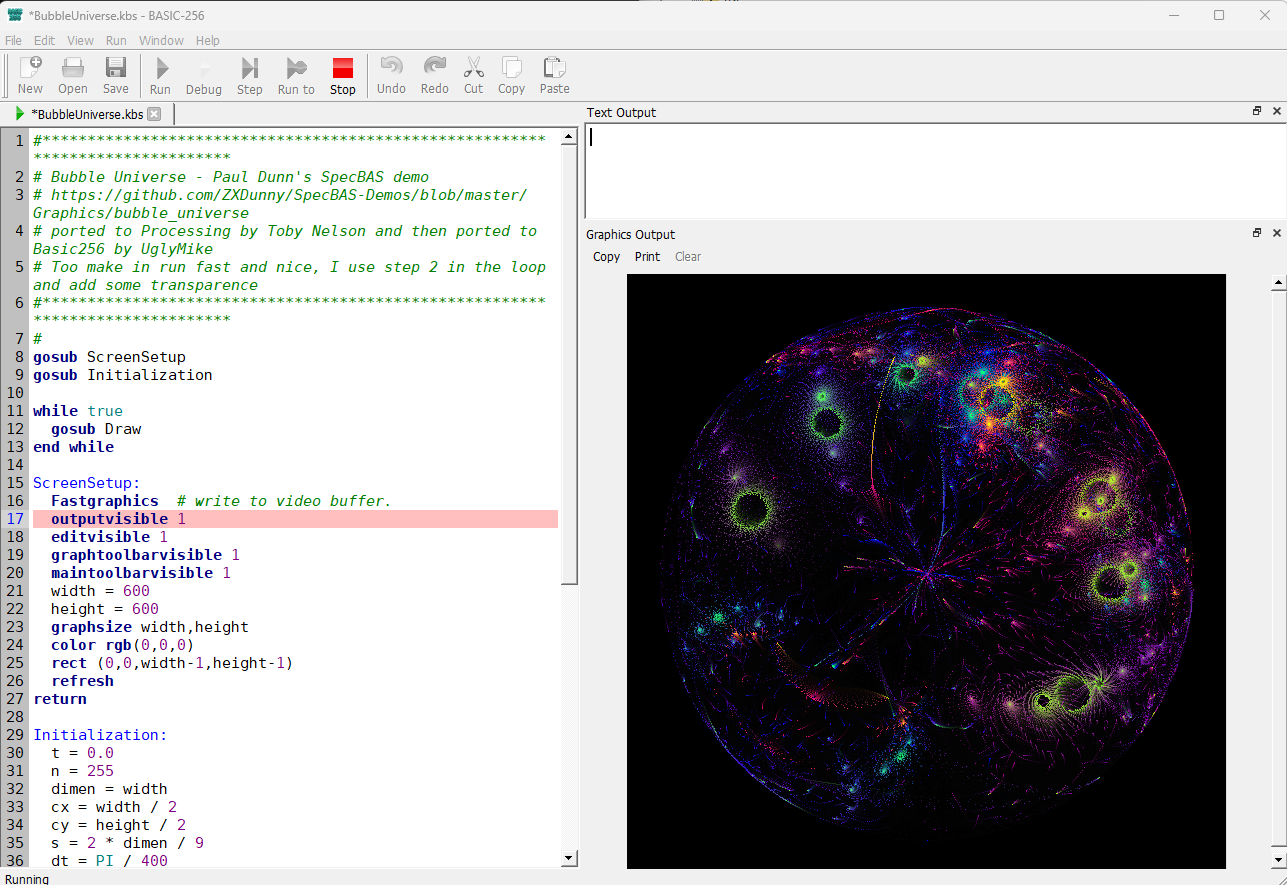
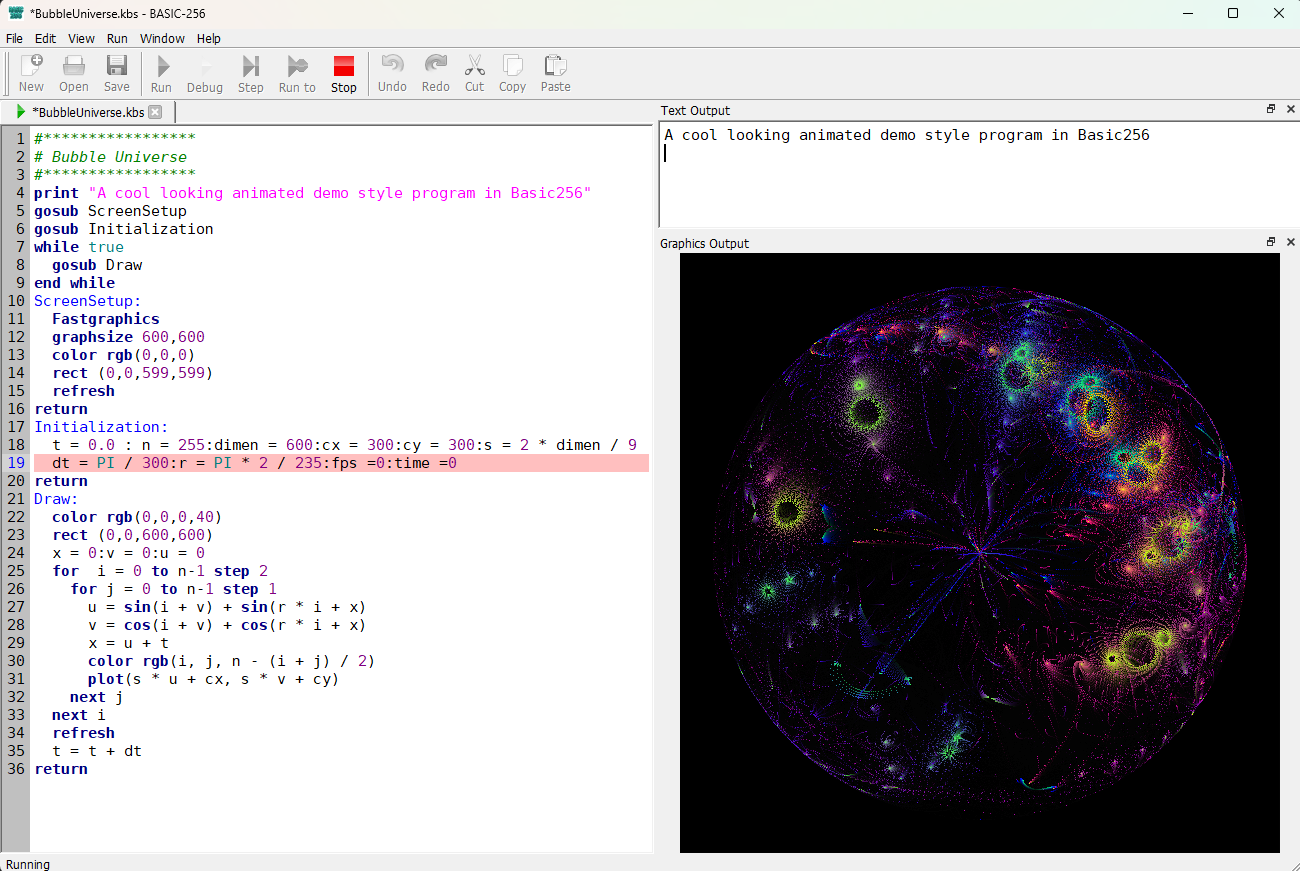
Make default graphsize 500 (was 300 ), and remove some warnings and depreciated Qt constructs

Changed region(s): [[0.0, 0.0, 1.0, 1.0], [0.9635, 0.093, 1.0, 0.124], [0.9324, 0.0, 0.9946, 0.031]]

diff --git a/BasicGraph.cpp b/BasicGraph.cpp
@@ -17,6 +17,7 @@
 
 
 
+#include <cmath>
 #include <iostream>
 
 #include <QClipboard>
@@ -29,7 +30,7 @@
 #include <QtWidgets/QScrollArea>
 #include <QtWidgets/QToolBar>
 #include <QDockWidget>
-#include <QDesktopWidget>
+#include <QScreen>
 
 #include "BasicWidget.h"
 #include "BasicGraph.h"
@@ -159,8 +160,8 @@ void BasicGraph::setTrasformationMaps() {
 void BasicGraph::resizeWindowToFitContent() {
 // NOT android - Android - FULL screen
 #ifndef ANDROID
-    int winw = labs((qreal)gwidth * gscale * gzoom);
-    int winh = labs((qreal)gheight * gscale * gzoom);
+    int winw = static_cast<int>(std::abs((qreal)gwidth  * gscale * gzoom));
+    int winh = static_cast<int>(std::abs((qreal)gheight * gscale * gzoom));
     setFixedSize(winw, winh);
 
     //force resize
@@ -185,7 +186,7 @@ void BasicGraph::resizeWindowToFitContent() {
                 dock->setMaximumSize(QWIDGETSIZE_MAX ,QWIDGETSIZE_MAX );
 
                 // make graph window visible in screen range (ignoring taskbar area)
-                QRect screen (QApplication::desktop()->availableGeometry(this));
+                QRect screen (QApplication::primaryScreen()->availableGeometry());
                 QPoint win_position = dock->pos();
                 QSize win_size = dock->size();
                 int w = win_size.width()+win_position.x();

diff --git a/Interpreter.cpp b/Interpreter.cpp
@@ -644,7 +644,7 @@ int Interpreter::compileProgram(char *code) {
 		// because in debugMode it already call goToLine(1) at start
 		for(int i=0; i<numparsewarnings; i++) {
 		QString msg = tr("COMPILE WARNING");
-		if (parsewarningtablelexingfilenumber!=0) {
+		if (parsewarningtablelexingfilenumber[i]!=0) {
 			msg += tr(" in included file '") + QString(include_filenames[parsewarningtablelexingfilenumber[i]]) + QStringLiteral("'");
 		} else if(gotowarning){
 			emit(goToLine(parsewarningtablelinenumber[i]));

diff --git a/LineNumberArea.cpp b/LineNumberArea.cpp
@@ -54,7 +54,7 @@ LineNumberArea::LineNumberArea(BasicEdit *editor) : QWidget(editor) {
     be = editor;
 }
 
-QSize LineNumberArea::sizeHint() {
+QSize LineNumberArea::sizeHint() const {
     return QSize(be->lineNumberAreaWidth(), 0);
 }
 

diff --git a/LineNumberArea.h b/LineNumberArea.h
@@ -48,7 +48,7 @@
  public:
 	LineNumberArea(BasicEdit *editor);
 
-	 QSize sizeHint();
+	 QSize sizeHint() const override;
      
  protected:
 	void paintEvent(QPaintEvent *event);

diff --git a/Main.cpp b/Main.cpp
@@ -123,7 +123,6 @@ int main(int argc, char *argv[]) {
     }
 #endif  
 
-    QCoreApplication::setAttribute(Qt::AA_EnableHighDpiScaling);
     QApplication qapp(argc, argv);
     QFont f = qapp.font();
     f.setPointSize(9);

diff --git a/MainWindow.cpp b/MainWindow.cpp
@@ -33,7 +33,6 @@
 #include <QtWidgets/QDialog>
 #include <QtWidgets/QLabel>
 #include <QtWidgets/QShortcut>
-#include <QtWidgets/QDesktopWidget>
 
 #include "MainWindow.h"
 #include "Settings.h"

diff --git a/README.md b/README.md
@@ -1,6 +1,11 @@
+**Introduction**  
+*****************
 BASIC-256 is modern retro BASIC programming environment for learning coding and having fun. 
-It was originally called Kidbasic and was started in 2007, but today in its current state, it is already quite capable for everyday hobby use.
-A Qt5-based program, it has a 3-pane IDE with edit-, output- and graphics-windows. 
+It was originally called Kidbasic and was started in 2007, but after years of updating by the original contributers and a rename to Basic256, it is in its current state quite capable for everyday hobby use .
+
+**Usage**  
+*****************
+This Qt5-based C++ program, when started simply with the basic256.exe command (or by clicking on its icon), opens with a 3-pane IDE with edit-, output- and graphics-windows. 
 ![Interface](Basic256.png)
 
 It can also be called from the command-line/Terminal with the following options:
@@ -16,52 +21,78 @@ It can also be called from the command-line/Terminal with the following options:
 |-t|--text|Run specified .kbs with only Text window | 
 |-l|--lang --languageset|Start BASIC-256 using the specified language.|
 
-One can even make shortcut on the desktop with a .bat file like:
-      @echo off
-      C:\PATH_TO_BASIC256\basic256.exe -g Mandelbrot-256.kbs
-to have a file run as if it was an application. Make sure to set the "Run" property to Minimized to prevent a terminal window from popping up.
-Maybe a better way would be to but a shortcut to a .vbs file on the desktop:
-    ' run_mandelbrot.vbs  — no console window, ever
-    Set sh = CreateObject("WScript.Shell")
-    sh.Run """C:\PATH_TO_BASIC256\basic256.exe"" -g ""C:\PATH_TO_KBS\Mandelbrot-256.kbs""", 1, False
+The -a, -g, -t options allow you to run the program in kiosk mode, without showing the actual code window.
 
-The original code and current downloadable version resides on SourceForge (https://sourceforge.net/projects/kidbasic/) and is at version 2.0.0.11, which launched in 2020. It comes with an Example directory but most programs there need to be updated. There is also a Testsuite directory but this does not come with the Installer.
+One can even make shortcut on the desktop with a .bat file like:
+ ```console
+@echo off
+C:\PATH_TO_BASIC256\basic256.exe -g Mandelbrot-256.kbs
+ ```
+to have a file run as if it was an application. Make sure to set the "Run" property to Minimized to prevent a terminal window from popping up.  
+Maybe a better way in Windows to use a .vbs file instead of a:
+ ```console
+' run_mandelbrot.vbs  — no console window, ever
+Set sh = CreateObject("WScript.Shell")
+sh.Run """C:\PATH_TO_BASIC256\basic256.exe"" -g ""C:\PATH_TO_KBS\Mandelbrot-256.kbs""", 1, False
+ ```
+
+**Original Project**  
+***************************
+The original code and last downloadable version resides on SourceForge (https://sourceforge.net/projects/kidbasic/) and is at version 2.0.0.11, which launched in 2020. It uses qmake and MinGW to compile the Windows version. It had a Mac version (Intel Macs) but has been discontinued since long. 
+ It comes with an Example directory but most programs there need to be updated to modern specs related to speed and graphics sizes. There is also a Testsuite directory but this does not come with the Installer. For more 'advanced' code than the included Example programs, I invite you to go look at https://uglymike.static.domains
 
 Unfortunately, development of Basic256 has apparently been stopped  after a failed attempt to port it to Qt6.
 
+**About this fork**  
+*************************
 This new  GitHub repository (Github - uglymike17/basic256) is my attempt to restart Basic256 and takes the v2.0.99.10.2 the branch with the aim of trying to modernize the codebase into a v2.1.
 
 The initial aim for this branch is to provide a modern toolchain and stabilisation
  
- - port from qmake to CMake and from minGW to MSVC
+ - port from qmake to CMake and from minGW to MSVC  
    ==> Seems to have gone ok, although some issues cropped up. (eg: A DIM statement should now always add 'fill 0' to prevent issues)
- - make clean-ups & modernisations where possible. 
-   ==> fix some leaks
-   ==> removed depreciated Qt operands.
- - make it compile on Windows, Linux-x86 and Linux-ARM (RPi) and MacOS Silicon.
+ - make clean-ups & modernisations where possible.  
+   ==> fix some leaks  
+   ==> removed depreciated Qt operands.  
+   ==> Add -g /--graph and -t /--text CLI options.  
+   ==> Remove some unused code.
+
+ - make it compile on Windows, Linux-x86 and Linux-ARM (RPi) and MacOS Silicon.  
    ==> All architecture build ok but need more testing.
 
- Current status as of 20/06/2026
+ **Current status as of 27/06/2026**
  ********************************
- There is a single build.yml file that builds and packages all architectures via scripts. At the moment I produce an install .exe for Windows (nsi based) and a standalone Windows .zip file, a tarball for Linux-x86 and one for Linux-ARM and a zip file for MacOS, no deb yet
- 1. Windows .zip file seems to be working. (more testing required)
- 2. Windows installer .exe file seems to be working although coming from an unknown source. (more testing required)
- 2. Linux x86 seems to be working. (more testing required)
+ There is a single build.yml file that builds and packages all architectures via scripts. At the moment I produce an install .exe for Windows (nsi based) and a standalone Windows .zip file, a tarball for Linux-x86 and one for Linux-ARM and a zip file for MacOS. No deb yet.
+ 1. Windows .zip file seems to be working and can be extracted anywhere you like. (more testing required)
+ 2. Windows installer .exe file seems to be working although coming from an unknown source. (more testing required) A signed version mght be coming thanks to https://signpath.io/solutions/open-source-community 
+ 2. Linux x86 seems to be working but is very large. (more testing required)
  3. Raspberry Pi is problematic on Trixie. Github runner Ubuntu-24.4-ARM has a different Qt5 than Trixie. These do not mix and as Trixie does not include several required Qt5 libraries, I have to bundle all the runner's Qt5 libs. Even with this, speech does not work out-of-the-box since Trixie does not come with speech-dispatcher so this MUST be installed. So RPi build works but the tar ball is very big due to all the bundled libraries.
- 4. MacOS Silicon (M1,M2,M3) resulted in an Homebrew basic256 app, but having no developer license, I added an ad-hoc signing. This should prevent the message: "basic256.app" is damaged and can't be opened. This should show the messge "unidentified developer" instead which one can hopefully click through. Most recent MacOS' do not allow this, I'm told. There is however a possibility to add your own Developer ID in the script and so to open a path to notarisation which would allow installation on modern MacOS versions.
+ 4. MacOS Silicon (M1,M2,M3) resulted in an Homebrew basic256 app, but having no developer license, I added an ad-hoc signing. This should prevent the message: "basic256.app" is damaged and can't be opened. This should show the messge "unidentified developer" instead. If this happens, try the command to strip the quarantine flag:
+    ```console
+    xattr -cr /Applications/BASIC256.app
+    ```
+
+    According to Google AI, the following should work as well:  
+    To quickly run an ad-hoc signed Mac app, open Terminal, apply the ad-hoc signature to bypass the Gatekeeper with 
+    ```console
+    codesign --force --deep -s - /path/to/app.app
+    ```
+     There is however a possibility to add your own Developer ID in the script and so to open a path to notarisation which would allow installation seemlessly on modern MacOS versions.
  
 Future actions
 **************************
 First thing on the agenda is to get the word out so anybody could give their feedback on it. 
-A debian file would also be nice but is of lower priority (Linux Distro's provide their own Basic256 package, so this would only become required after major improvements to the code). 
+A debian file would also be nice but is of lower priority (Linux Distro's provide their own 'old' Basic256 package, so this would only become required after major improvements to the code). 
 Help with the debian packaging would be very much appreciated
 
-Once this main branch is stable enough, I (we?) can start adding small features/bugfixes. A big whishlist item would be to switch to the qscintilla editor, but this is not urgent.
+Once this main branch is stable enough, I (we?) can start adding small features like new functions or commands  (ATAN2, Perlin Noise, Clamp,...). A big whishlist item would be to switch to the qscintilla editor, but this is not urgent.
 Ideally there should later be an uncoupling of interpreter code, GUI code, CLI code (?) etc in order to be able to compile it into WebAssembly. (one can dream...). Finally, a Qt6 migration is long overdue
 
-Also, example files should be updated to reflect more modern machines, the wiki-based help at doc.basic256.org should be updated and a renewed website would be required. Neither of these is under my control...
+Also, example files should be updated to reflect more modern machines.   
+The wiki-based help at doc.basic256.org should be updated and a renewed website would be required. Unfortunately, neither of these last two is under my control but I am in contact with the main maintainer of the project...
 
-Remark
+**Remark**  
 **********************
-I'm mainly a Basic256 fan (see https://uglymike.static.domains/) and have practically no knowledge of github, c++ or 'real' programming and project managment.
-I'm using free accounts on chatGPT, Claude, Google's Gemini and Perplexity to get where I am now.
+I'm mainly a Basic256 fan (see https://uglymike.static.domains/) and have practically no knowledge of github, c++ or 'real' programming and project managment. I'm using free accounts on chatGPT, Claude, Google's Gemini and Perplexity to get where I am now.  
+
+Some help from more 'experienced' programmers would be very welcome.